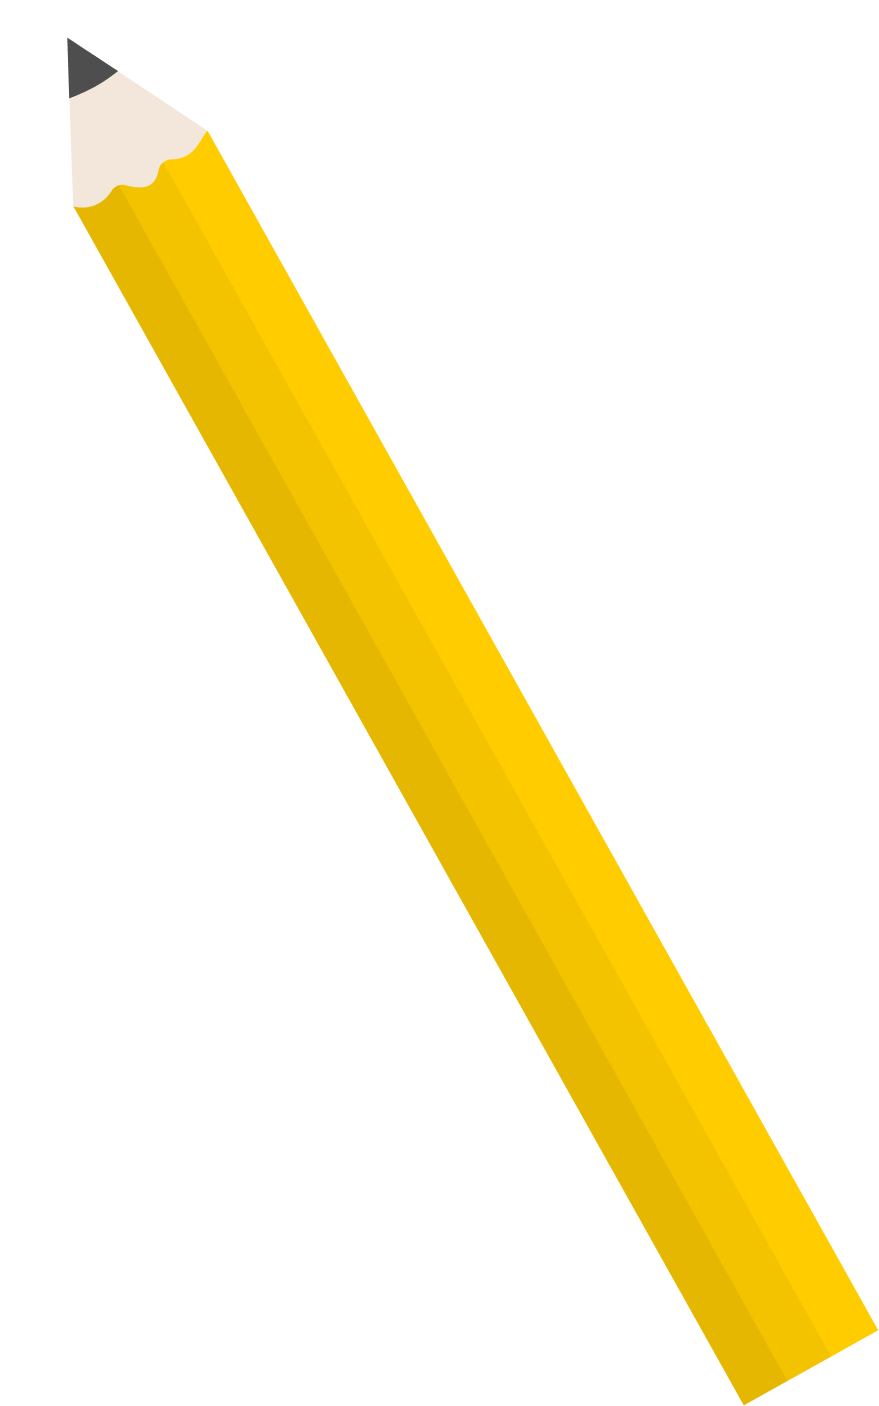
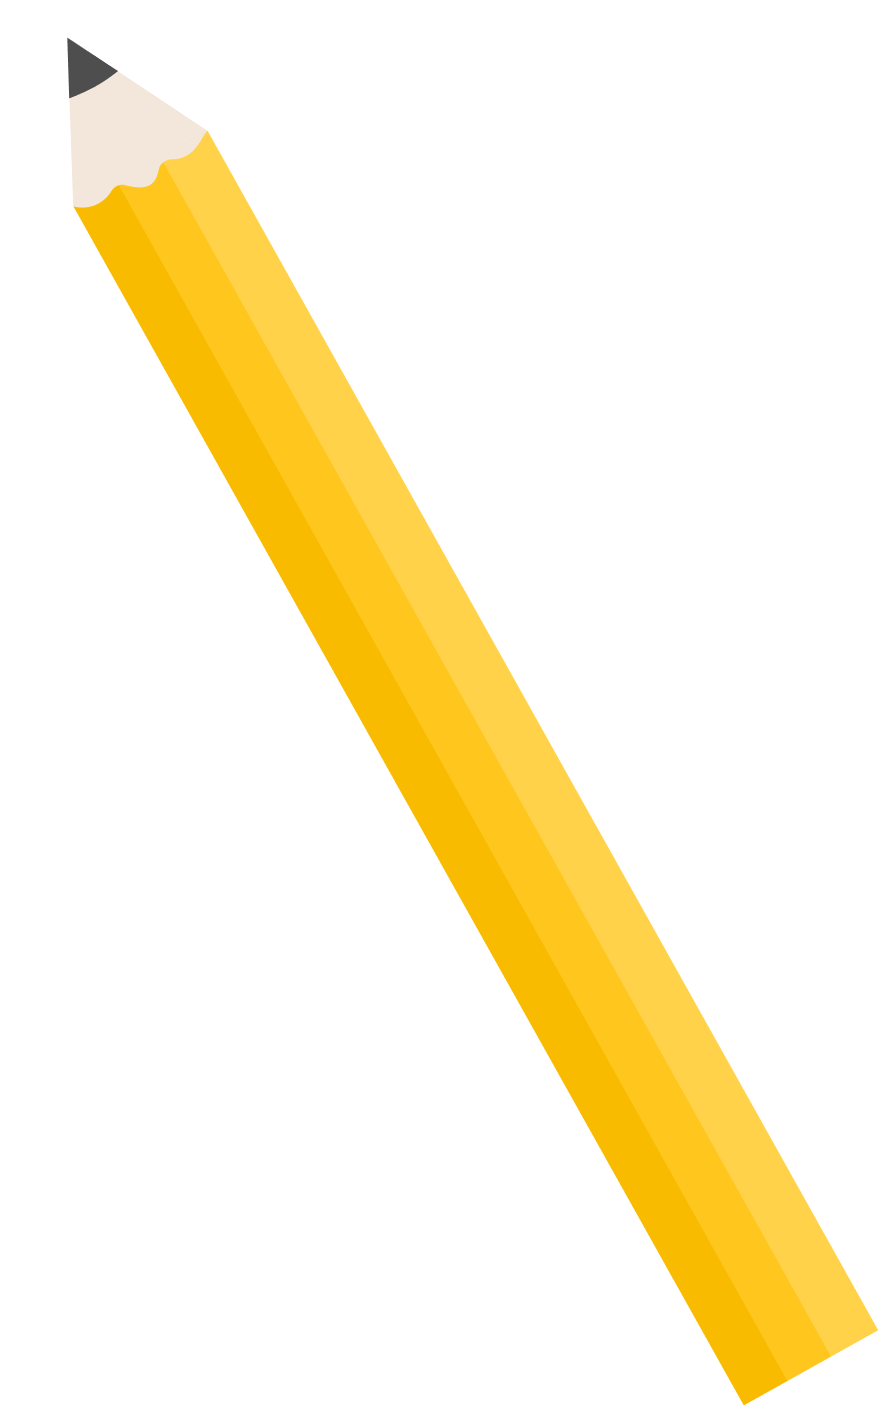
hi

Changed region(s): [[0.1229, 0.0917, 1.0, 0.9787]]

diff --git a/studio2/styles.css b/studio2/styles.css
@@ -15,7 +15,9 @@ p, h1{
 
 /* notebook */
 body {
-    background-color: rgb(255, 236, 209);
+    background-color: rgb(255, 234, 203);
+    background-image: url(images/table.jpg);
+    background-size: cover;
     overflow-y: hidden;
 }
 
@@ -30,7 +32,7 @@ body {
 
 #page{
     position: relative;
-    filter: drop-shadow(-4px 4px 3px rgba(77, 77, 77, 0.5));
+    filter: drop-shadow(-4px 2px 3px rgba(77, 77, 77, 0.5));
 }
 
 h1{
@@ -38,31 +40,65 @@ h1{
     z-index: 1;
 
     font-size: 36px;
-    color:rgb(0, 67, 183, 0.8);
-    left: 320px;
-    top: 40px;
+    color:rgba(255, 0, 55, 0.8);
+    left: 195px;
+    top: 30px;
 }
 
 .dates{
     position: absolute;
     z-index: 1;
-    top: 180px;
-    left: 170px;
+    top: 140px;
+    left: 140px;
 }
 
 .dates p{
-    margin-bottom: 10.5px;
+    margin-bottom: 1.7px;
     padding-left: 15px;
 }
+    
+.jan:hover{
+    background-color: rgb(255, 236, 153, 0.5);
+}
 
-.dates p:hover{
+.highlighted{
     background-color: rgb(255, 236, 153, 0.5);
 }
 
 #catdoodle1{
     position: absolute;
-    top: 250px;
+    top: 290px;
     left: 510px;
+}
+
+#catdoodle2{
+    position: absolute;
+    top: 180px;
+    left: 350px;
+}
+
+#catdoodle3{
+    position: absolute;
+    top: 150px;
+    left: 600px;
+}
+
+#catdoodle4{
+    position: absolute;
+    top: 450px;
+    left: 510px;
+}
+
+#catdoodle5{
+    position: absolute;
+    top: 350px;
+    left: 350px;
+}
+
+#catdoodle6{
+    position: absolute;
+    top: 350px;
+    left: 650px;
 }
 
 .cats p{
@@ -80,18 +116,33 @@ h1{
     position: absolute;
     z-index:1;
 
-    top: 250px;
+    top: 180px;
     left: 700px;
 }
 
 /* stationery */
-.stationery{
+.stationery #number{
+    font-size: 60px;
+    text-align: center;
+    position: absolute;
+    z-index: 2;
+    top: 225px;
+    left: 900px;
+    transform: rotate(20deg);
 }
 
 .stationery #pencil{
     position: absolute;
-    filter: drop-shadow(-4px 4px 3px rgba(77, 77, 77, 0.5));
+    filter: drop-shadow(-4px 2px 3px rgba(77, 77, 77, 0.5));
     transform: rotate(-10deg);
     top: 450px;
     left: 750px;
+}
+
+.stationery #postit{
+    position: absolute;
+    filter: drop-shadow(-4px 2px 3px rgba(77, 77, 77, 0.5));
+    transform: rotate(20deg);
+    top: 150px;
+    left: 800px;
 }

diff --git a/studio2/index.html b/studio2/index.html
@@ -22,37 +22,38 @@
 
 <body>
     <section class="notebook">
-        <h1>number of cats drawn in my notes</h1>
 
-        <img id="page" src="images/notes.png" alt="page" width="1000">
+        <h1>number of cats doodled in my notes</h1>
+
+        <img id="page" src="images/notes.png" alt="page" width="800">
 
         <div class="dates">
-            <p>january 5</p>
-            <p>january 7</p>
-            <p>january 9</p>
-            <p>january 12</p>
-            <p>january 14</p>
-            <p>january 16</p>
-            <p>january 19</p>
-            <p>january 21</p>
-            <p>january 23</p>
-            <p>january 26</p>
-            <p>january 28</p>
-            <p>january 30</p>
+            <p class="jan">january 5</p>
+            <p class="jan">january 7</p>
+            <p class="jan">january 9</p>
+            <p>&nbsp;</p>
+            <p class="jan">january 12</p>
+            <p class="jan">january 14</p>
+            <p class="jan">january 16</p>
+            <p>&nbsp;</p>
+            <p class="jan">january 19</p>
+            <p class="jan">january 21</p>
+            <p class="jan">january 23</p>
+            <p>&nbsp;</p>
+            <p class="jan">january 26</p>
+            <p class="jan">january 28</p>
+            <p class="jan">january 30</p>
         </div>
 
-        <div class="cats">
-            <div class="number">
-                <p>#</p>
-            </div>
-
-            <img src="images/catdoodle.png" alt="cat" id="catdoodle1" width="150">
-        </div>
+        <div class="cats"></div>
 
 
         <div class="stationery">
             <img src="images/pencil.png" alt="pencil" width="300" id="pencil">
+            <img src="images/postit.png" alt="post-it" width="300" id="postit">
+            <p id="number">0 cats</p>
         </div>
+
     </section>
 
     

diff --git a/studio2/script.js b/studio2/script.js
@@ -1,0 +1,59 @@
+(function(){
+    'use strict';
+    console.log('js working');
+
+    async function getData(){
+        const cats = await fetch('data/data.json');
+        const data = await cats.json();
+        const values = Object.values(data);
+        // console.log(values);
+
+        //change number
+        const number = document.querySelector('#number');
+
+        //list of dates
+        const january = document.querySelectorAll('.jan');
+        console.log(january);
+
+        //click dates
+        for(let i = 0; i < january.length; i++){
+            january[i].addEventListener('click', function(){
+                if(values[i]==1){
+                    number.innerHTML = values[i] + " cat";
+                } else{
+                    number.innerHTML = values[i] + " cats"; 
+                }
+                document.querySelector('.cats').innerHTML = outputCats(values[i]);
+            });
+        }
+    }
+
+    function outputCats(num) {
+        let catImages = '';
+        let list = shuffleCats();
+
+        // Loop exactly 'num' times
+        for (let i = 0; i < num; i++) {
+            catImages += `<img src="images/${list[i]}" id="catdoodle${i+1}" alt="cat" width="100">`;
+        }
+
+        return catImages;
+    }
+
+    function shuffleCats(){
+        const catList = ['catdoodle1.png', 'catdoodle2.png', 'catdoodle3.png', 'catdoodle4.png', 'catdoodle5.png', 'catdoodle6.png', 'catdoodle7.png', 'catdoodle8.png', 'catdoodle9.png'];
+
+        for (let i = catList.length -1; i > 0; i--) {
+            let j = Math.floor(Math.random() * (i+1));
+            let k = catList[i];
+            catList[i] = catList[j];
+            catList[j] = k;
+        }
+        // console.log(catList);
+
+        return catList;
+    }
+
+    getData();
+
+})()
